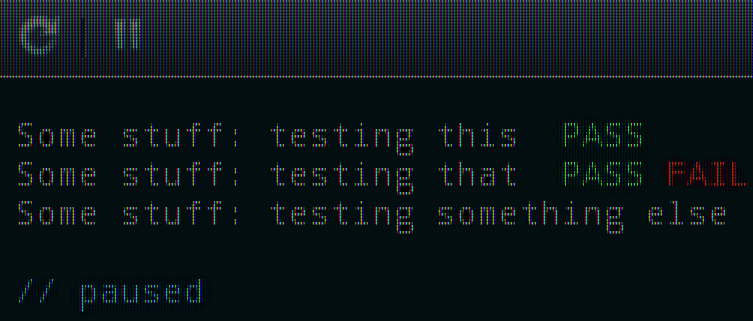
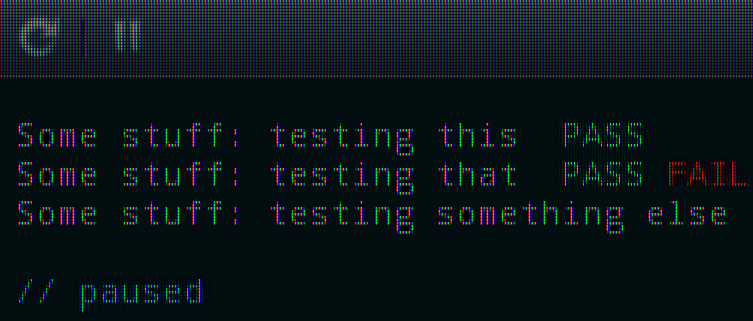
webpage update

Changed region(s): [[0.0, 0.0, 1.0, 0.2492]]

diff --git a/style.css b/style.css
@@ -17,7 +17,7 @@ table.pad {
 
 img {
     margin-left : -20px;
-    padding-top : 25px;
+    padding-top : 20px;
     padding-bottom : 10px;
 }
 
